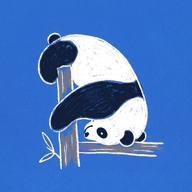
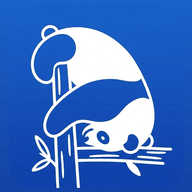
Add files via upload

diff --git a/index.html b/index.html
@@ -2054,28 +2054,19 @@ body.dark mark{background:rgba(90,175,240,.26)}
 <style id="skin51">
 /* Ver.64 — [stated] "เอารูปนี้เลย ไม่ต้องวาดใหม่" — มาสคอตเป็นไฟล์ภาพ mascot.png
    ไม่ฝัง base64 เพราะ index.html จะโตขึ้น 400KB ทันที และ sw แคชไฟล์นี้ให้อยู่แล้ว */
-.mark{background:#2F6DD0}
+.mark{background:#1752B6}
 .mkimg{width:100%;height:100%;object-fit:cover;display:block;border-radius:inherit;
   -webkit-user-select:none;user-select:none;pointer-events:none}
 </style>
 <style id="skin52">
-/* Ver.66 — [stated] "อยากให้เลื่อนได้อีก ... ปัดนิ้วดึงลงได้ ... พอปล่อยนิ้วก็รีเฟรช"
-   ดึงทั้งหน้าลงมา มีมาสคอตโผล่ขึ้นมาข้างหลัง — ทำทุกหน้า */
+/* Ver.68 — [stated] "การรีเฟรชจริงหายไป เอาตัวหมุนกลมเล็กออกด้วย" + "ไม่ควรตรึงส่วนหัว"
+   ของเดิม (Ver.66) เลื่อนเฉพาะ .page และรีเฟรชแบบนิ่มๆ ด้วย sbPull()+render()
+   ตอนนี้: ดึงทั้งเปลือกแอป (หัว+เนื้อ) ลงมาพร้อมกัน แล้วปล่อย = โหลดหน้าใหม่จริง
+   ไม่มีตัวบ่งชี้ใดๆ — การที่ทั้งหน้าขยับคือตัวบ่งชี้อยู่แล้ว */
 body{overscroll-behavior-y:contain}
-.ptr{position:fixed;left:50%;top:0;z-index:60;width:44px;height:44px;margin-left:-22px;
-  border-radius:50%;overflow:hidden;background:#2F6DD0;
-  box-shadow:0 6px 18px -8px rgba(16,20,37,.5);
-  opacity:0;transform:translateY(-56px) scale(.7);pointer-events:none}
-.ptr img{width:100%;height:100%;object-fit:cover;display:block}
-.ptr.snap{transition:opacity .22s ease,transform .32s cubic-bezier(.2,.9,.3,1)}
-.ptr.spin img{animation:ptrspin .9s linear infinite}
-@keyframes ptrspin{to{transform:rotate(360deg)}}
-.page.ptrmove{will-change:transform}
-.page.ptrsnap{transition:transform .32s cubic-bezier(.2,.9,.3,1)}
-@media (prefers-reduced-motion: reduce){
-  .ptr,.page.ptrsnap{transition:none}
-  .ptr.spin img{animation:none}
-}
+.ptrmove{will-change:transform}
+.ptrsnap{transition:transform .32s cubic-bezier(.2,.9,.3,1)}
+@media (prefers-reduced-motion: reduce){ .ptrsnap{transition:none} }
 </style>
 <style id="skin49">
 /* Ver.58 */
@@ -2122,8 +2113,40 @@ body{overscroll-behavior-y:contain}
 .pwabar .pwno{flex:0 0 auto;width:28px;height:28px;border:0;border-radius:50%;
   background:transparent;color:var(--ink3);font-size:14px;padding:0}
 </style>
+<style id="skin53">
+/* ============================================================
+   Ver.68
+   [3] การ์ด "จ่ายไปกับอะไร" — โดนัทเป็นพระเอกคืน
+       เดิม: โดนัท 86px เลขกลาง 13.5px แต่ชื่อหมวดฝั่งขวา 14px และ 5 แถวสูง 202px
+       รวมแล้วฝั่งขวาหนักกว่ากราฟทั้งที่กราฟคือหัวใจของการ์ด
+       - ย้าย % ไปรวมกับ /วัน ในบรรทัดรอง ได้คอลัมน์คืนมาให้ชื่อหมวด
+       - โดนัท 86 → 106  เลขกลาง 13.5 → 17  (ใหญ่กว่าทุกตัวในการ์ด)
+       - บีบระยะแถวลง ฝั่งขวาเตี้ยลงเข้าใกล้ความสูงโดนัท
+   [4] ตัวหนังสือทั้งแอปเข้มขึ้นหนึ่งขั้น — เดิมเทาอมฟ้าจนดูหม่น
+   [6] ขีดสีของช่องรับ/จ่าย ย้ายจากขอบบนไปขอบซ้าย
+   ============================================================ */
+
+/* ---- [3] ---- */
+.donutwrap{gap:12px;align-items:center}
+.donut{flex:0 0 106px}
+.donut svg{width:106px;height:106px}
+.donut .m1{font-size:10px}
+.donut .m2{font-size:17px}
+.crow{padding:2px 0;gap:8px}
+.crow .cnm b{font-size:13.5px;line-height:1.3}
+.crow .cnm i{font-size:10.5px;line-height:1.22}
+.cam{flex:0 0 60px;font-size:12.5px;color:var(--ink)}
+
+/* ---- [4] ---- */
+:root{ --ink:#1F2436; --ink2:#4E5670; --ink3:#7F87A0; }
+body.dark{ --ink:#F1F3FA; --ink2:#B6BCD0; --ink3:#8E95AC; }
+
+/* ---- [6] ---- */
+.tile.tabtop{padding-left:16px}
+.tile.tabtop::after{top:0;left:0;right:auto;bottom:0;width:3px;height:auto}
+</style>
 <link rel="manifest" href="./manifest.webmanifest">
-<meta name="theme-color" content="#1B7FC0">
+<meta name="theme-color" content="#1752B6">
 <meta name="mobile-web-app-capable" content="yes">
 <meta name="apple-mobile-web-app-capable" content="yes">
 <meta name="apple-mobile-web-app-status-bar-style" content="default">
@@ -2254,7 +2277,6 @@ body{overscroll-behavior-y:contain}
   </div>
   <div class="shbody" id="shBody"></div>
 </div>
-<div class="ptr" id="ptr" aria-hidden="true"><img src="./mascot.png" alt=""></div>
 <div class="pwabar" id="pwaBar">
   <span class="pwt">ติดตั้ง Muifei ลงเครื่อง เปิดเร็วกว่าและไม่มีแถบเบราว์เซอร์</span>
   <button class="pwyes" onclick="pwaInstall()">ติดตั้ง</button>
@@ -3479,9 +3501,8 @@ function renderSummary(){
   var rows=ks.slice(0,5).map(function(k){
     var dn=Object.keys(dayN[k]||{}).length||1,per1=Math.round(by[k]/dn);
     return '<div class="crow">'+catIcoTile(k,side)
-     +'<span class="cnm"><b>'+esc(k)+'</b><i>'+fmt(per1)+'/วัน</i></span>'
-     +'<span class="cam">'+fmt(by[k])+'</span>'
-     +'<span class="cpc">'+Math.round(by[k]/tot*100)+'%</span></div>';}).join('');
+     +'<span class="cnm"><b>'+esc(k)+'</b><i>'+fmt(per1)+'/วัน · '+Math.round(by[k]/tot*100)+'%</i></span>'
+     +'<span class="cam">'+fmt(by[k])+'</span></div>';}).join('');
   document.getElementById('sumBody').innerHTML=
    '<div class="donutwrap"><div class="donut"><svg viewBox="0 0 110 110">'
    +'<circle cx="55" cy="55" r="37" fill="none" stroke="var(--line)" stroke-width="14"></circle>'+segs+'</svg>'
@@ -5563,50 +5584,41 @@ window.addEventListener('beforeinstallprompt',function(e){
   e.preventDefault(); _pwaEvt=e; pwaBarShow();
 });
 window.addEventListener('appinstalled',function(){ _pwaEvt=null; pwaBarHide(); });
-/* ================= Ver.66 — ดึงลงเพื่อรีเฟรช =================
+/* ================= Ver.68 — ดึงลงเพื่อรีเฟรช (ของจริง) =================
    เกี่ยวข้องเฉพาะตอนอยู่สุดหัวจริงๆ และนิ้วลากลงมากกว่าลากข้าง
-   จึงไม่ชนกับปัดลบของแถวรายการ และปิดไว้ตอนชีทเปิดหรือกำลังลากชิป */
+   จึงไม่ชนกับปัดลบของแถวรายการ และปิดไว้ตอนชีทเปิดหรือกำลังลากชิป
+   Ver.68: ขยับ header ไปพร้อมเนื้อหา (เดิมตรึงหัวไว้ เห็นเป็นช่องว่างแปลกๆ)
+           และปล่อยแล้ว location.reload() = รีเฟรชจริงแบบเดียวกับที่เบราว์เซอร์ทำ
+           overscroll-behavior:contain ปิด PTR ของเบราว์เซอร์ไป จึงต้องคืนของจริงให้เอง */
 (function(){
-  var el=null,y0=0,x0=0,pull=0,on=false,live=false,busy=false;
+  var els=[],y0=0,x0=0,pull=0,on=false,live=false,busy=false;
   var MAXP=104, TRIG=62;
-  function box(){ return document.getElementById('ptr'); }
-  function page(){ return document.querySelector('.page:not(.off)'); }
-  function put(px){
-    var b=box(); if(!b)return;
-    var k=Math.min(1,px/TRIG);
-    b.style.opacity=k;
-    b.style.transform='translateY('+(px*0.72)+'px) scale('+(0.7+0.3*k)+') rotate('+(px*2.2)+'deg)';
-    if(el)el.style.transform='translateY('+px+'px)';
+  function shell(){
+    var a=[document.querySelector('header.top'), document.querySelector('.page:not(.off)')];
+    return a.filter(function(x){return !!x;});
   }
-  function reset(snap){
-    var b=box();
-    if(b){ b.classList.add('snap'); b.classList.remove('spin');
-           b.style.opacity=0; b.style.transform='translateY(-56px) scale(.7)'; }
-    if(el){ el.classList.add('ptrsnap'); el.style.transform=''; }
-    var e=el; el=null; pull=0; on=false; live=false;
-    setTimeout(function(){ if(e){e.classList.remove('ptrsnap','ptrmove');e.style.transform='';}
-                           if(b)b.classList.remove('snap'); },340);
+  function put(px){
+    for(var i=0;i<els.length;i++) els[i].style.transform='translateY('+px+'px)';
+  }
+  function clear(){
+    var e=els;
+    for(var i=0;i<e.length;i++){ e[i].classList.add('ptrsnap'); e[i].style.transform=''; }
+    els=[]; pull=0; on=false; live=false;
+    setTimeout(function(){ for(var i=0;i<e.length;i++){
+      e[i].classList.remove('ptrsnap','ptrmove'); e[i].style.transform=''; } },340);
   }
   function fire(){
     busy=true;
-    var b=box();
-    if(b){ b.classList.add('snap','spin'); b.style.opacity=1;
-           b.style.transform='translateY(46px) scale(1)'; }
-    if(el){ el.classList.add('ptrsnap'); el.style.transform='translateY(56px)'; }
-    var done=function(){ busy=false; reset(true); };
-    var job;
-    try{ job=(!DEMO&&_sbUid)?sbPull():Promise.resolve(); }catch(e){ job=Promise.resolve(); }
-    job['catch'](function(){}).then(function(){
-      try{ render(); }catch(e){}
-      setTimeout(done,420);
-    });
+    for(var i=0;i<els.length;i++){ els[i].classList.add('ptrsnap');
+      els[i].style.transform='translateY(52px)'; }
+    setTimeout(function(){ try{ location.reload(); }catch(e){ busy=false; clear(); } },240);
   }
   document.addEventListener('touchstart',function(e){
     if(busy||e.touches.length!==1)return;
     if(document.getElementById('sheet').classList.contains('on'))return;
     if(document.getElementById('ask').classList.contains('on'))return;
     if((window.scrollY||document.documentElement.scrollTop||0)>0)return;
-    el=page(); if(!el)return;
+    els=shell(); if(!els.length)return;
     y0=e.touches[0].clientY; x0=e.touches[0].clientX; pull=0; on=true; live=false;
   },{passive:true});
   document.addEventListener('touchmove',function(e){
@@ -5614,7 +5626,8 @@ window.addEventListener('appinstalled',function(){ _pwaEvt=null; pwaBarHide(); }
     var dy=e.touches[0].clientY-y0, dx=e.touches[0].clientX-x0;
     if(!live){
       if(dy<6||Math.abs(dy)<Math.abs(dx)*1.4){ if(dy<0){on=false;} return; }
-      live=true; if(el)el.classList.add('ptrmove');
+      live=true;
+      for(var i=0;i<els.length;i++) els[i].classList.add('ptrmove');
     }
     if(dy<=0){ put(0); return; }
     e.preventDefault();
@@ -5624,7 +5637,7 @@ window.addEventListener('appinstalled',function(){ _pwaEvt=null; pwaBarHide(); }
   function up(){
     if(!on||busy)return;
     if(live&&pull>=TRIG){ fire(); return; }
-    reset(false);
+    clear();
   }
   document.addEventListener('touchend',up,{passive:true});
   document.addEventListener('touchcancel',up,{passive:true});

diff --git a/sw.js b/sw.js
@@ -2,7 +2,7 @@
    ตั้งใจใช้ network-first กับตัวแอป เพราะปัญหาคลาสสิกของ PWA คือ
    อัปไฟล์ใหม่ขึ้น GitHub แล้วเครื่องยังเห็นของเก่าค้างอยู่ */
 /* Ver.65: ขึ้นเลขทุกครั้งที่เปลี่ยนไอคอน/มาสคอต — ไม่งั้นของเก่าค้างในแคชตลอดไป */
-var CACHE = 'muifei-v4';
+var CACHE = 'muifei-v5';
 var SHELL = ['./index.html', './manifest.webmanifest', './mascot.png',
              './icon-192.png', './icon-512.png', './icon-maskable-512.png'];
 
